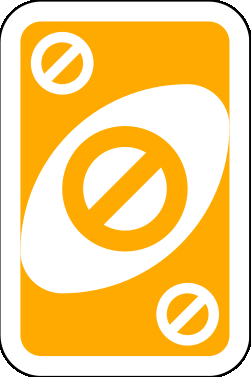
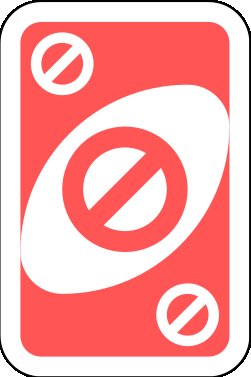
class diagram correcto

diff --git a/src/view/javafx/CardPilesBar.java b/src/view/javafx/CardPilesBar.java
@@ -32,7 +32,7 @@ public class CardPilesBar implements ICardPilesBar {
 		FileInputStream inputStream;
 		try {
 			//enlazar el archivo correspondiente con el inputStream.
-			inputStream = new FileInputStream("assets/UnoCards/blue/0.png");
+			inputStream = new FileInputStream("assets/UnoCards/none/back.png");
 			mazo = new ImageView(new Image(inputStream));
 
 			mazo.setFitHeight(100);
